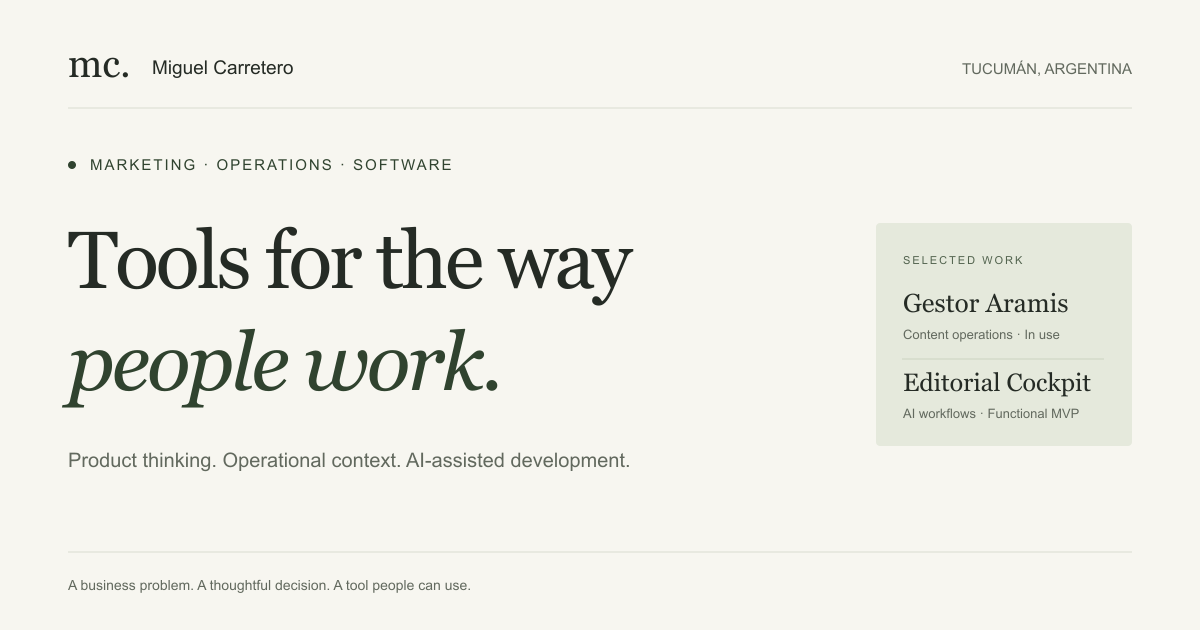
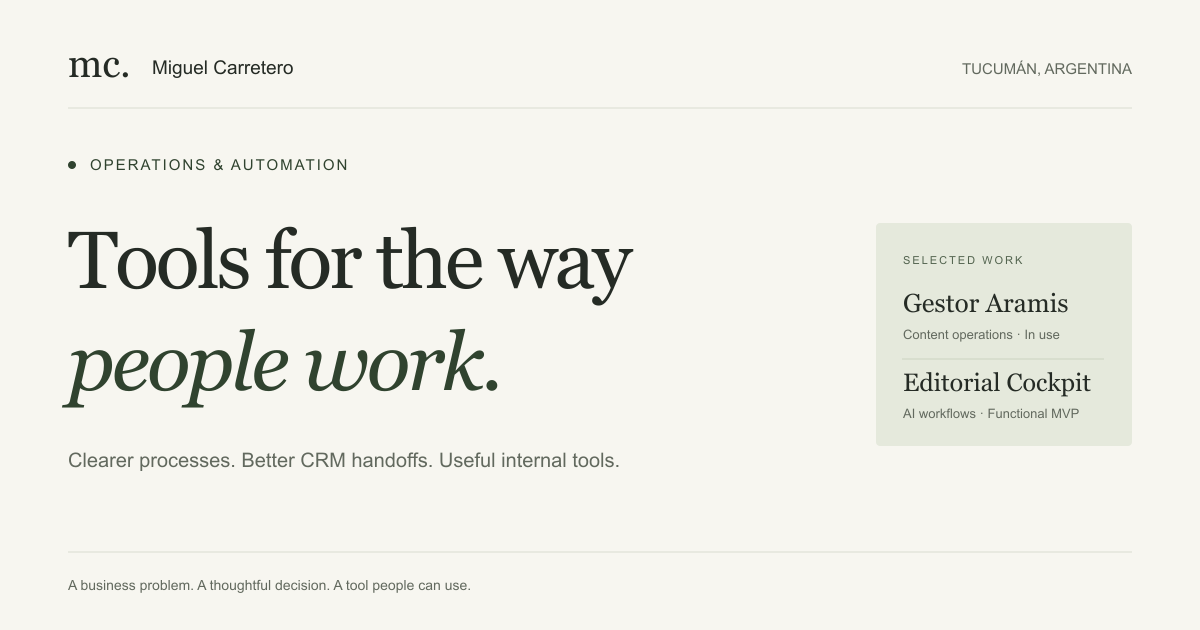
Clarify operations and automation positioning

Changed region(s): [[0.0617, 0.6937, 0.5242, 0.754], [0.0617, 0.2413, 0.37, 0.2714]]

diff --git a/docs/CONTENT_SOURCES.md b/docs/CONTENT_SOURCES.md
@@ -13,6 +13,15 @@
 - The 2026-10-15 CV revision leads with 2+ years of operations/automation experience and explicitly includes leadership of two colleagues in marketing and design. The dermatology campaign remains client-attributed, with no spend or cost-per-conversation claim.
 - About portrait: Miguel's photo attached on 2026-10-14, edited at his request with built-in imagegen for framing/background. Source asset and complete edit prompt documented in PORTRAIT.md.
 
+## Positioning — 2026-10-19
+
+- Miguel requested clearer wording oriented toward roles supported by his existing experience. Lead with **Operations & Automation**, supported by marketing/sales workflows, CRM organization, team coordination and internal tools.
+- This is an editorial positioning decision, not a claim that a particular title guarantees interviews or has a measured higher hiring probability. Marketing Operations, Business Operations and workflow implementation roles remain relevant searches; evaluate their actual platform and engineering requirements individually.
+- Reviewed first-party role descriptions for [AI Automation Specialist](https://jobs.ashbyhq.com/Scale%20Army%20Careers/1a866617-9ac3-4332-9121-c33a811011de) and [AI Implementation Specialist](https://jobs.ashbyhq.com/Scale%20Army%20Careers/3c458132-4fa7-487b-9390-2be14d0c1ea6). They connect process mapping, CRM/workflow improvements, practical automation and user adoption. These references guide vocabulary; they are not a claim Miguel meets every requirement or that the positions remain open.
+- Product Operations and Forward Deployed roles vary. Reviewed examples at [Moab](https://jobs.ashbyhq.com/moab/5faca633-05c3-4948-8f23-5f9fba1c045b) and [Tread](https://jobs.ashbyhq.com/tread/4c347015-3b0c-4dc1-bbf1-60d21d72bea9) include product analytics or production software engineering requirements. Do not adopt those titles as Miguel's established professional identity.
+- Keep his programming degree in Background. The main biography should explain his current work, requirements, workflow decisions, AI-assisted implementation and validation with users. Do not claim independent production engineering skills, delivery speed multipliers, measured time savings or new project adoption.
+- Soluntech's CRM handoff remains manual. Describing its organization without the adverb does not imply that it was automated.
+
 ## Selected business outcomes — update from 2026-10-07
 
 - Selection revised at Miguel's request on 2026-10-18: feature only the Soluntech RFP improvement and Gestor's team adoption. The dermatology campaign remains background evidence and in the approved CV; it is no longer a home-page highlight. Miguel has no RFP screenshots to supply, so do not imply a separate illustrated case study. The redundant home-to-background RFP link has been removed. Gestor's headline emphasizes adoption by the whole current team, with the three-person count retained in supporting copy.

diff --git a/docs/PLAN.md b/docs/PLAN.md
@@ -38,6 +38,8 @@ Help potential employers and collaborators understand Miguel's experience, inspe
 | 12b | Publish focused outcomes | Existing Cloudflare deployment updated and live content verified | Complete |
 | 13a | Improve outcome paragraph readability | Shorter reading measure, balanced wrapping and responsive layout verified | Complete |
 | 13b | Publish outcome typography adjustment | Updated public styling and existing live checks verified | Complete |
+| 14a | Clarify operations and automation positioning | Home, biography and social preview name a clear function; contribution and experience remain accurate; production build and responsive review pass | Complete |
+| 14b | Publish positioning update | Updated public home, metadata and social preview verified on the existing Worker | Pending |
 
 ## Content structure
 
@@ -64,6 +66,8 @@ Project content has a slug, title, summary, publication flag, project status, ro
 - Cloudflare's current Pages command delegated new-project creation to Workers. The first release uses a new static-assets Worker; the existing Gestor Pages project is unrelated. Existing login permissions were sufficient, and no new authorization was needed.
 
 ## Progress log
+
+- 2026-10-19 — Chunk 14a: clarified the home position as Operations & Automation, with marketing/sales workflows, CRM organization and AI-assisted internal tools as supporting evidence. Revised the introduction, work summary, biography, process, Aramis experience and contact caption; kept the programming degree in Background. Updated page metadata, the social preview and the existing live title check. Type/content validation passed with zero errors, warnings or hints; four production pages built. Reviewed the production preview at 1280px and 320px, including the About section and social image: no horizontal overflow, missing home anchors or console warnings/errors. Project status, metrics and the approved CV remain unchanged.
 
 - 2026-10-06 — Located the empty repository, checked the environment, approved scope and relevant sources. No application code or deployment yet.
 - 2026-10-06 — Chunk 2: Astro 7 structure, typed project collection, shared layout, local fonts, CV and initial project assets. Type/content check: zero errors, warnings or hints. Production build passed. The 390px mobile foundation has no horizontal overflow. Updated Sharp through an override for Wrangler's dependency; npm audit reports zero vulnerabilities. Empty collection notices are expected before chunk 4 adds the cases.

diff --git a/docs/RELEASE_CHECKS.md b/docs/RELEASE_CHECKS.md
@@ -1,5 +1,13 @@
 # Release checks — 2026-10-06
 
+## Operations and automation positioning — 2026-10-19
+
+- Home, biography, title, description and social preview now lead with Operations & Automation. Supporting copy names marketing/sales workflows, CRM organization, requirements, team coordination and user validation.
+- Programming education remains in Background. Project statuses, personal technical skills and measured/qualitative claim boundaries are preserved; no new performance or engineering claims were added.
+- `npm run verify` passed: zero errors, warnings or hints; four static pages built. `git diff --check` passed.
+- Reviewed the production preview at 1280px and 320px: readable introductory copy and biography, no horizontal overflow, existing résumé link and all home anchor targets present. Browser recorded no warnings/errors. The regenerated 1200 × 630 social preview was visually inspected.
+- Publication verification pending.
+
 ## Outcome paragraph readability — 2026-10-18
 
 - Outcome descriptions now use a maximum width of 48ch, 13px body text and `text-wrap: pretty`; the existing card grid and all copy remain intact.

diff --git a/README.md b/README.md
@@ -1,6 +1,6 @@
 # Miguel Ángel Carretero — portfolio
 
-Personal portfolio focused on product decisions, operations and AI-assisted tools.
+Personal portfolio focused on operations and automation: marketing and sales workflows, CRM organization and AI-assisted internal tools.
 
 **Live site:** https://miguel-carretero-portfolio.miguel-carretero.workers.dev
 
